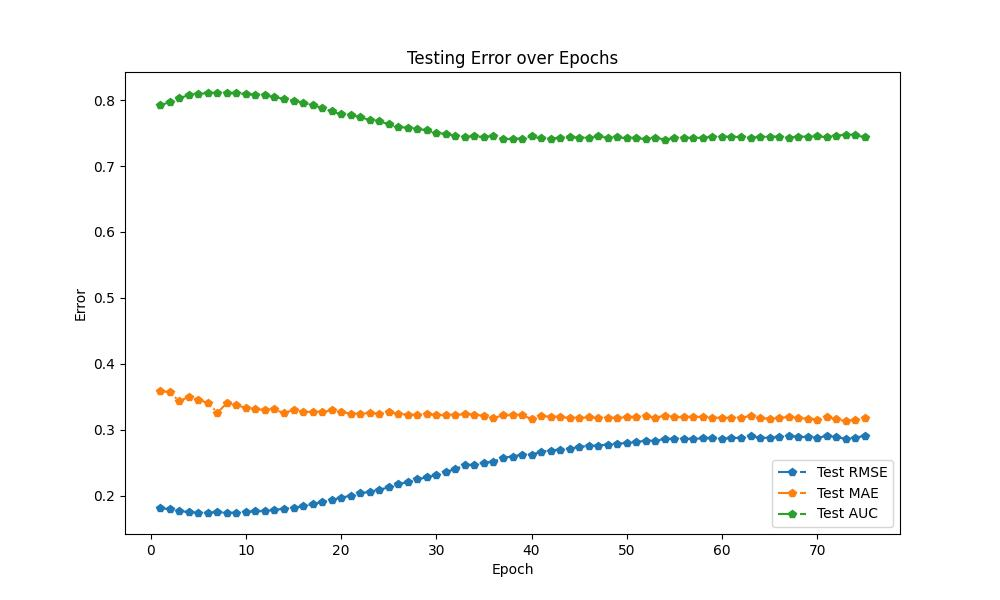
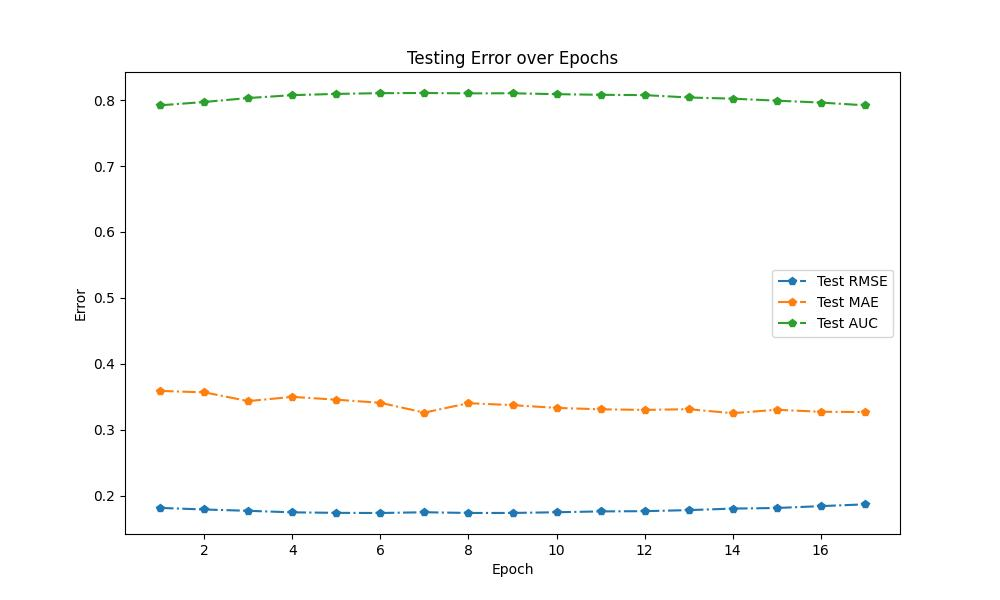
sota

diff --git a/Method/LSTM_train.py b/Method/LSTM_train.py
@@ -89,6 +89,8 @@ if __name__ == "__main__":
     loss_f = torch.nn.BCELoss()
     train_error = []
     test_error = []
+    best_auc = 0
+    count = 0
     for e in range(epoches):
         print("Training {} epoch of {}".format(e+1, epoches))
         train(model, dataloader_train, opt, criterion=loss_f, device=device, log_interval=100)
@@ -98,5 +100,13 @@ if __name__ == "__main__":
         print("Validating on test set")
         value_rmse, value_mae, value_auc = test(model, dataloader_test, device)
         test_error.append((value_rmse, value_mae, value_auc))
-    torch.save(model, Parameter.lstm_path)
+        if value_auc > best_auc:
+            torch.save(model, Parameter.lstm_path)
+            print("Best case updated, save to {}".format(Parameter.lstm_path))
+            best_auc = value_auc
+            continue
+        count += 1
+        if count == Parameter.early_stop:
+            print("Early stop at {} epoch of {}".format(e+1, epoches))
+            break
     Plot_errors(train_error, test_error, Parameter.output_root, 'train_LSTM.jpg', 'test_LSTM.jpg')
